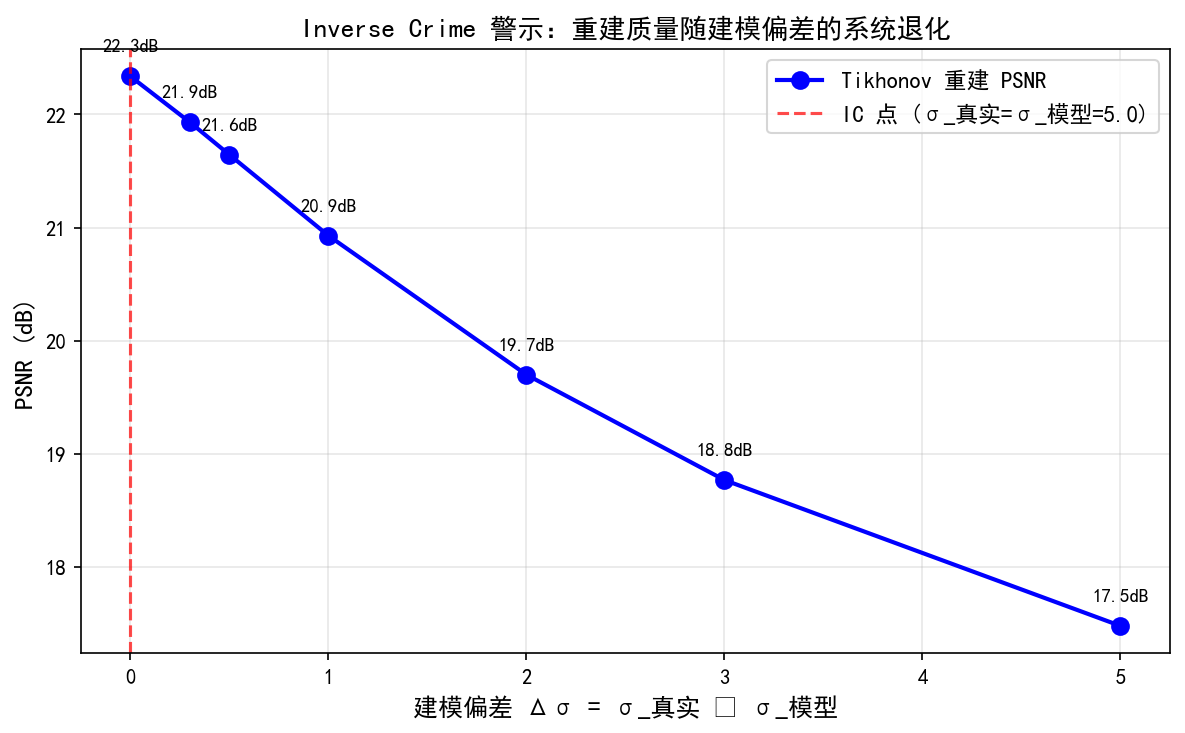
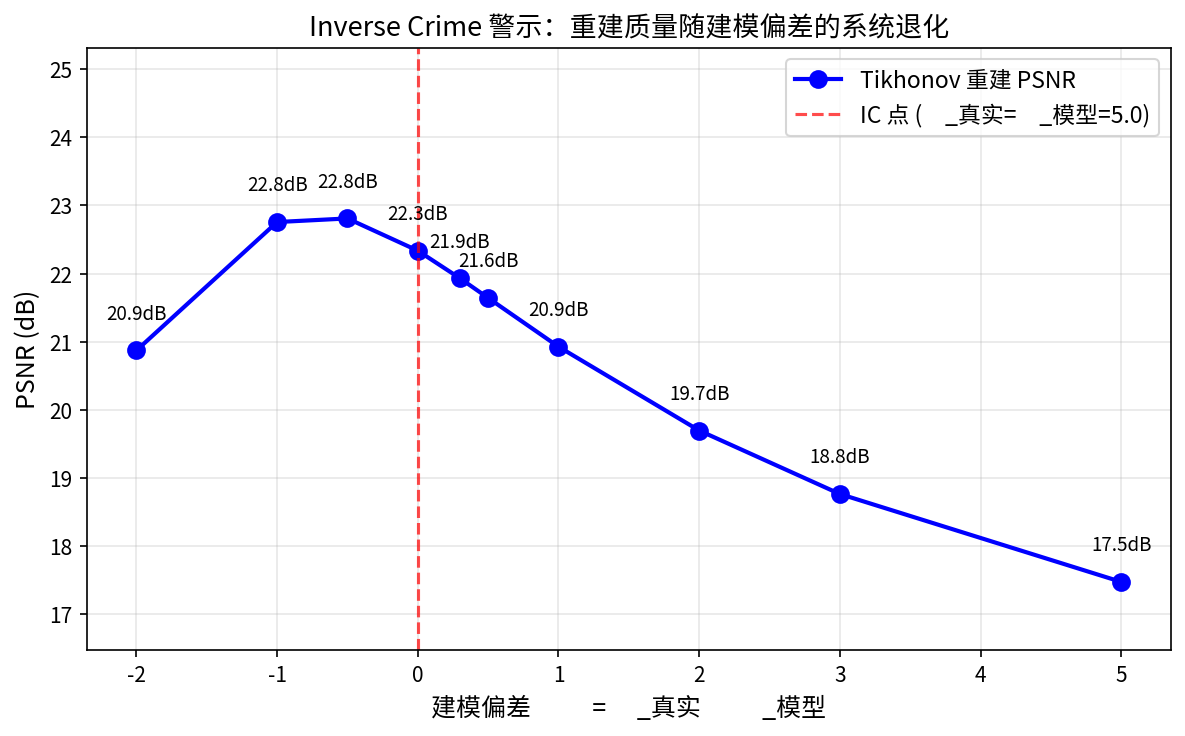
new

diff --git a/第1章 逆问题与贝叶斯推断/配套实验/实验1.3-4/1.3-4.py b/第1章 逆问题与贝叶斯推断/配套实验/实验1.3-4/1.3-4.py
@@ -48,6 +48,9 @@ def gaussian_psf(size: int, sigma: float) -> np.ndarray:
 def blur(x: np.ndarray, h: np.ndarray) -> np.ndarray:
     """频域卷积：y = x * h（循环卷积）。
     
+    注意：频域卷积等价于循环卷积，图像边缘可能出现环绕伪影。
+    若要减轻此效应，可在卷积前对图像做边缘填充（padding）。
+    
     Args:
         x: 输入图像。
         h: 卷积核（PSF）。
@@ -93,10 +96,15 @@ def naive_deconv(y: np.ndarray, H: np.ndarray, eps: float = 1e-15) -> np.ndarray
     Returns:
         重建图像。
     """
-    # 保相位模截断：只放大模值，不改变相位
+    # 保相位模截断：模值放大到至少 eps，相位严格不变
     abs_H = np.abs(H)
-    scale = np.where(abs_H < eps, eps / (abs_H + 1e-300), 1.0)
+    abs_H_clamped = np.maximum(abs_H, eps)
+    # 安全缩放：避免 H=0 时 0/0 产生 NaN
+    scale = np.ones_like(abs_H)
+    mask = abs_H > 0
+    scale[mask] = abs_H_clamped[mask] / abs_H[mask]
     H_reg = H * scale
+    H_reg[~mask] = eps  # H=0 时相位无意义，直接用 eps
     return np.real(np.fft.ifft2(np.fft.fft2(y) / H_reg))
 
 # ---- 4. Tikhonov 正则化反卷积 ----
@@ -135,7 +143,10 @@ x_tikh_noIC = tikhonov_deconv(y_noIC, H_A, lam=1e-2)
 # ---- 6. PSNR vs 建模偏差曲线 ----
 # 首元素 sigma=5.0 对应 Δσ=0（即 IC 条件），与主实验变量 sigma_A 相同
 # 后续递增模拟不同建模偏差，观察重建质量退化
-sigma_B_list = [5.0, 5.3, 5.5, 6.0, 7.0, 8.0, 10.0]
+# 注意：曲线通常不关于 Δσ=0 对称——
+# 低估模糊（Δσ<0）因过度锐化导致噪声放大，PSNR 下降更陡；
+# 高估模糊（Δσ>0）因过度平滑导致细节损失，下降相对平缓。
+sigma_B_list = [3.0, 4.0, 4.5, 5.0, 5.3, 5.5, 6.0, 7.0, 8.0, 10.0]
 psnr_curve = []
 for sb in sigma_B_list:
     h_tmp = gaussian_psf(n, sb)
@@ -193,10 +204,14 @@ ax2.set_title('Inverse Crime 警示：重建质量随建模偏差的系统退化
 ax2.legend(fontsize=11)
 ax2.grid(True, alpha=0.3)
 
+# 设置 y 轴范围，给数据标注留出上边距
+psnr_max = max(psnr_curve)
+ax2.set_ylim(bottom=min(psnr_curve) - 1, top=psnr_max + 2.5)
+
 # 标注每个数据点的 PSNR 值
 for d, p in zip(deviations, psnr_curve):
     ax2.annotate(f'{p:.1f}dB', (d, p), textcoords="offset points",
-                 xytext=(0, 12), ha='center', fontsize=9)
+                 xytext=(0, 15), ha='center', fontsize=9)
 
 plt.tight_layout()
 plt.savefig(os.path.join(SAVE_DIR, '实验1_3_4_PSNR_vs_建模偏差.png'), dpi=150, bbox_inches='tight')
@@ -209,9 +224,10 @@ print(f"异模型(σ={sigma_B})生成 + 重建 → PSNR={psnr_tikh_noIC:.1f}dB")
 print(f"PSNR 差异: {psnr_tikh_IC - psnr_tikh_noIC:.2f} dB")
 print("\n--- PSNR 随建模偏差变化 ---")
 for sb, p in zip(sigma_B_list, psnr_curve):
-    marker = " ← IC" if sb == sigma_A else ""
+    marker = " ← IC" if abs(sb - sigma_A) < 1e-9 else ""
     print(f"  σ_真实={sb:.1f} (偏差 Δσ={sb-sigma_A:.1f}) → PSNR={p:.2f} dB{marker}")
 print("\n建模偏差越大，重建质量系统性地越低——IC 条件下测得的性能不可靠！")
 print("\n注：以上结论基于 astronaut 单幅图像和固定正则化参数 λ=1e-2。")
-print("  定量数值会因图像内容、噪声水平和 λ 选择而变化，但定性趋势——")
-print("  建模偏差导致 PSNR 系统性下降——具有一般性。")
+print("  定量数值会因图像内容、噪声水平和 λ 选择而变化。")
+print("  Tikhonov 正则化对小幅建模误差有一定鲁棒性，但当建模偏差超过")
+print("  正则化的容忍范围时，PSNR 系统性下降的趋势具有一般性。")
